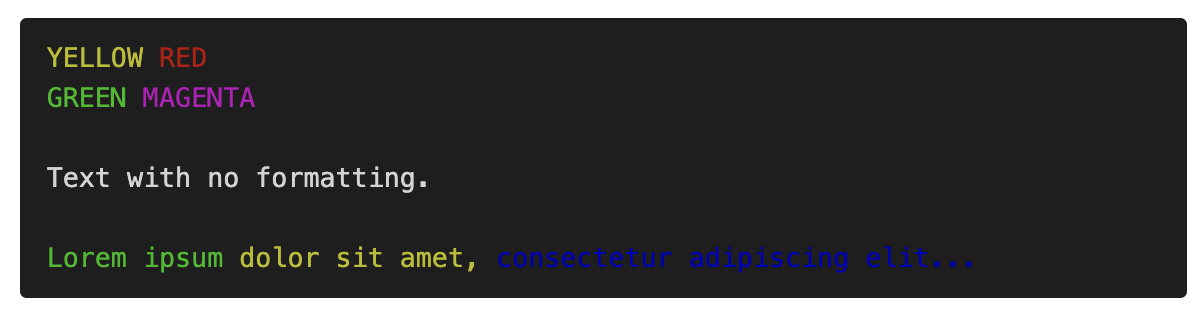
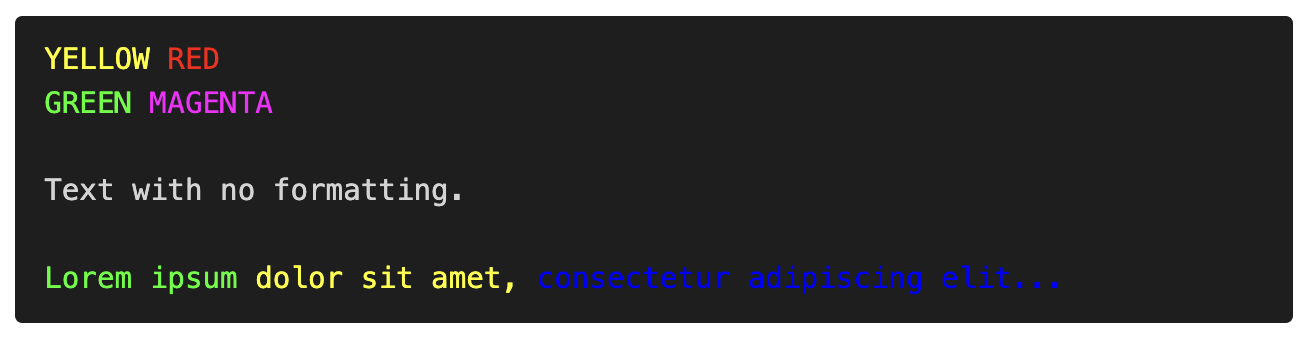
Add ability to set global behavior for escape sequence strings and per-block override

Changed region(s): [[0.0, 0.0287, 0.9867, 0.9745], [0.9867, 0.0573, 1.0, 0.9459]]

diff --git a/src/main.ts b/src/main.ts
@@ -30,11 +30,13 @@ export default class AnsiViewerPlugin extends Plugin {
 				}
 			}
 
+			const escStrings = escapeStrings(el, ctx);
+
 			const brightnessOffset = mode === 'light' ? this.settings.lightBrightnessOffset : this.settings.darkBrightnessOffset;
 			target.style.setProperty('--ansi-brightness-offset', String(brightnessOffset));
 
 			const innerHTML = rows.map(row => {
-				const preparsed = ansiEscapePreparser.parse(row);
+				const preparsed = ansiEscapePreparser.parse(row, escStrings);
 				const html = ansiUp.ansi_to_html(preparsed);
 				return html;
 			}).join('\n');
@@ -42,12 +44,38 @@ export default class AnsiViewerPlugin extends Plugin {
 			target.appendChild(sanitizeHTMLToDom(innerHTML))
 		};
 
+		/**
+		 * Returns the mode of the code block.
+		 * 
+		 * Return:
+		 *   - 'dark' if keyword 'dark' is present
+		 *   - 'light' if keyword 'light' is present
+		 *   - null otherwise
+		 */
 		const blockMode = (el: HTMLElement, ctx: MarkdownPostProcessorContext): 'dark' | 'light' | null => {
 			const args = codeBlockArgs(el, ctx);
 			if (!args) return null;
 			if (args.includes('dark')) return 'dark';
 			if (args.includes('light')) return 'light';
 			return null;
+		}
+
+		/**
+		 * Returns if the code block should consider string escape sequences as literal escape sequences
+		 * 
+		 * Return:
+		 *   - true if code block has the keyword "esc_real"
+		 *   - false if code block has the keyword "esc_string"
+		 *   - Value of the global setting `convertStringEscapeSequences` otherwise
+		 */
+		const escapeStrings = (el: HTMLElement, ctx: MarkdownPostProcessorContext): boolean => {
+			const globalSetting = this.settings.convertStringEscapeSequences;
+			const args = codeBlockArgs(el, ctx);
+			// Use global setting if block level keyword isn't present
+			if (!args) return globalSetting;
+			if (args.includes('esc_string')) return true;
+			if (args.includes('esc_real')) return false;
+			return globalSetting;
 		}
 
 		const codeBlockArgs = (el: HTMLElement, ctx: MarkdownPostProcessorContext) => {

diff --git a/src/settings.ts b/src/settings.ts
@@ -2,6 +2,7 @@ import { App, PluginSettingTab, Setting } from "obsidian";
 import AnsiViewerPlugin from "./main";
 
 export interface AnsiViewerSettings {
+	convertStringEscapeSequences: boolean;
 	correctIterm2Formatting: boolean;
 	newLineFormattingReset: boolean;
 	darkBackground: string;
@@ -29,6 +30,7 @@ export interface AnsiViewerSettings {
 }
 
 export const DEFAULT_SETTINGS: AnsiViewerSettings = {
+	convertStringEscapeSequences: true,
 	correctIterm2Formatting: true,
 	newLineFormattingReset: true,
 	darkBackground: '#1e1e1e',
@@ -106,6 +108,16 @@ export class AnsiViewerSettingTab extends PluginSettingTab {
 			// eslint-disable-next-line obsidianmd/ui/sentence-case
 			.setName('ANSI Viewer settings')
 			.setHeading();
+
+		new Setting(containerEl)
+			.setName('Convert string escape sequences to literal escape sequences')
+			.setDesc('Consider strings that would evaluate to the escape sequence as actual escape sequences. Example: "\\x1b", "\\e", "\\033" etc')
+			.addToggle(toggle => toggle
+				.setValue(this.plugin.settings.convertStringEscapeSequences)
+				.onChange(async (value) => {
+					this.plugin.settings.convertStringEscapeSequences = value;
+					await this.plugin.saveSettings();
+				}));
 
 		new Setting(containerEl)
 			// eslint-disable-next-line obsidianmd/ui/sentence-case

diff --git a/src/ansi_preparser.ts b/src/ansi_preparser.ts
@@ -6,14 +6,17 @@ const ESCAPE_SEQUENCE_LITERALS: string[] = ['\\x1b', '\\x1B', '\\033', '\\e', '\
 export default class AnsiPreparser {
 	constructor(private readonly getSettings: () => AnsiViewerSettings) {}
 
-	parse(ansi: string): string {
+	parse(ansi: string, escapeStrings: boolean): string {
 		if (ansi.length === 0) {
 			return ansi;
 		}
 
-		// ansi_up can only handle the real escape sequence. Replace string literal escapes with the real thing.
-		// TODO: Make this configurable or optional per code block
-		let preparsed = this.replaceEscapeSequenceLiterals(ansi);
+		let preparsed = ansi;
+
+		if (escapeStrings) {
+			// ansi_up can only handle the real escape sequence. Replace string literal escapes with the real thing if configured to
+			preparsed = this.replaceEscapeSequenceLiterals(preparsed);
+		}
 
 		if (this.getSettings().newLineFormattingReset) {
 			preparsed = this.resetFormattingOnNewLine(preparsed);

diff --git a/README.md b/README.md
@@ -14,6 +14,7 @@ If you are using iTerm2, highlight the desired text and use the option **Copy wi
 - Support for _almost_ all codes
 - Matches current theme by default
 - Configurable dark and light mode with custom colors
+- Support for strings representing the escape sequence (configurable)
 - Support iTerm2's weird control sequences (configurable)
 - Support for multiline formatting (configurable)
 
@@ -21,7 +22,7 @@ If you are using iTerm2, highlight the desired text and use the option **Copy wi
 
 Simply create a code block with the word "ansi" and paste in your code.
 
-_NOTE: Actual escape sequences may not be rendered in Obsidian. This plugin supports the use of string literals which evaluate to the escape sequence: `\x1b`, `\e`, `\033` etc_
+_NOTE: Actual escape sequences may not be rendered in Obsidian._
 
 ~~~
 ```ansi
@@ -34,24 +35,29 @@ Text with no formatting.
 ```
 ~~~
 
-![basic examples](images/basic-example-light.png)
+![Code block with Obisdian default theme in light mode](images/basic-example-light.png)
 
-By default, these code blocks will match the currently selected theme as well as the dark/light setting.
+### Literal Escape Codes
+
+By default, both real escape sequences and those represented by strings will be used to evaluate the codes. This option can be disabled in settings.
+
+You can set this behavior per block using the keywords `esc_real` to consider only actual escape sequences or `esc_string` to consider string such as "\x1b", "\e" or "\033" as escape sequences.
+
+## Themes
+
+By default, `ansi` code blocks will match the currently selected theme as well as the dark/light setting.
+
+_Code block with the RetroNotes theme and Obsidian in light mode_
+
+![Code block with the RetroNotes theme and Obsidian in light mode](images/basic-example-retro-notes-light.png)
+
+_Code block with the RetroNotes theme and Obsidian in dark mode_
+
+![Code block with the RetroNotes theme and Obsidian in dark mode](images/basic-example-retro-notes-dark.png)
 
 You can set each code block to always be rendered using the plugins customizable dark or light theme. To do this, simply add `dark` or `light` after `ansi`. Colors can be changed from the plugin settings menu.
 
-_NOTE: The default style of the dark and light theme may not match your currently selected theme if you are not using the default one. Adjustments may be required._
-
-~~~
-```ansi dark
-\x1b[0;33mYELLOW\x1b[0m \x1b[0;31mRED\x1b[0m\x1b[0m
-\x1b[0;32mGREEN\x1b[0m \x1b[0;35mMAGENTA\x1b[0m
-
-Text with no formatting.
-
-\x1b[0;32mLorem ipsum \x1b[0;33mdolor sit amet, \x1b[0;34mconsectetur adipiscing elit...\x1b[0m
-```
-~~~
+_Code block using `dark` keyword with Obsidians default theme in light mode_
 
 ![basic examples](images/basic-example-dark.png)
 
